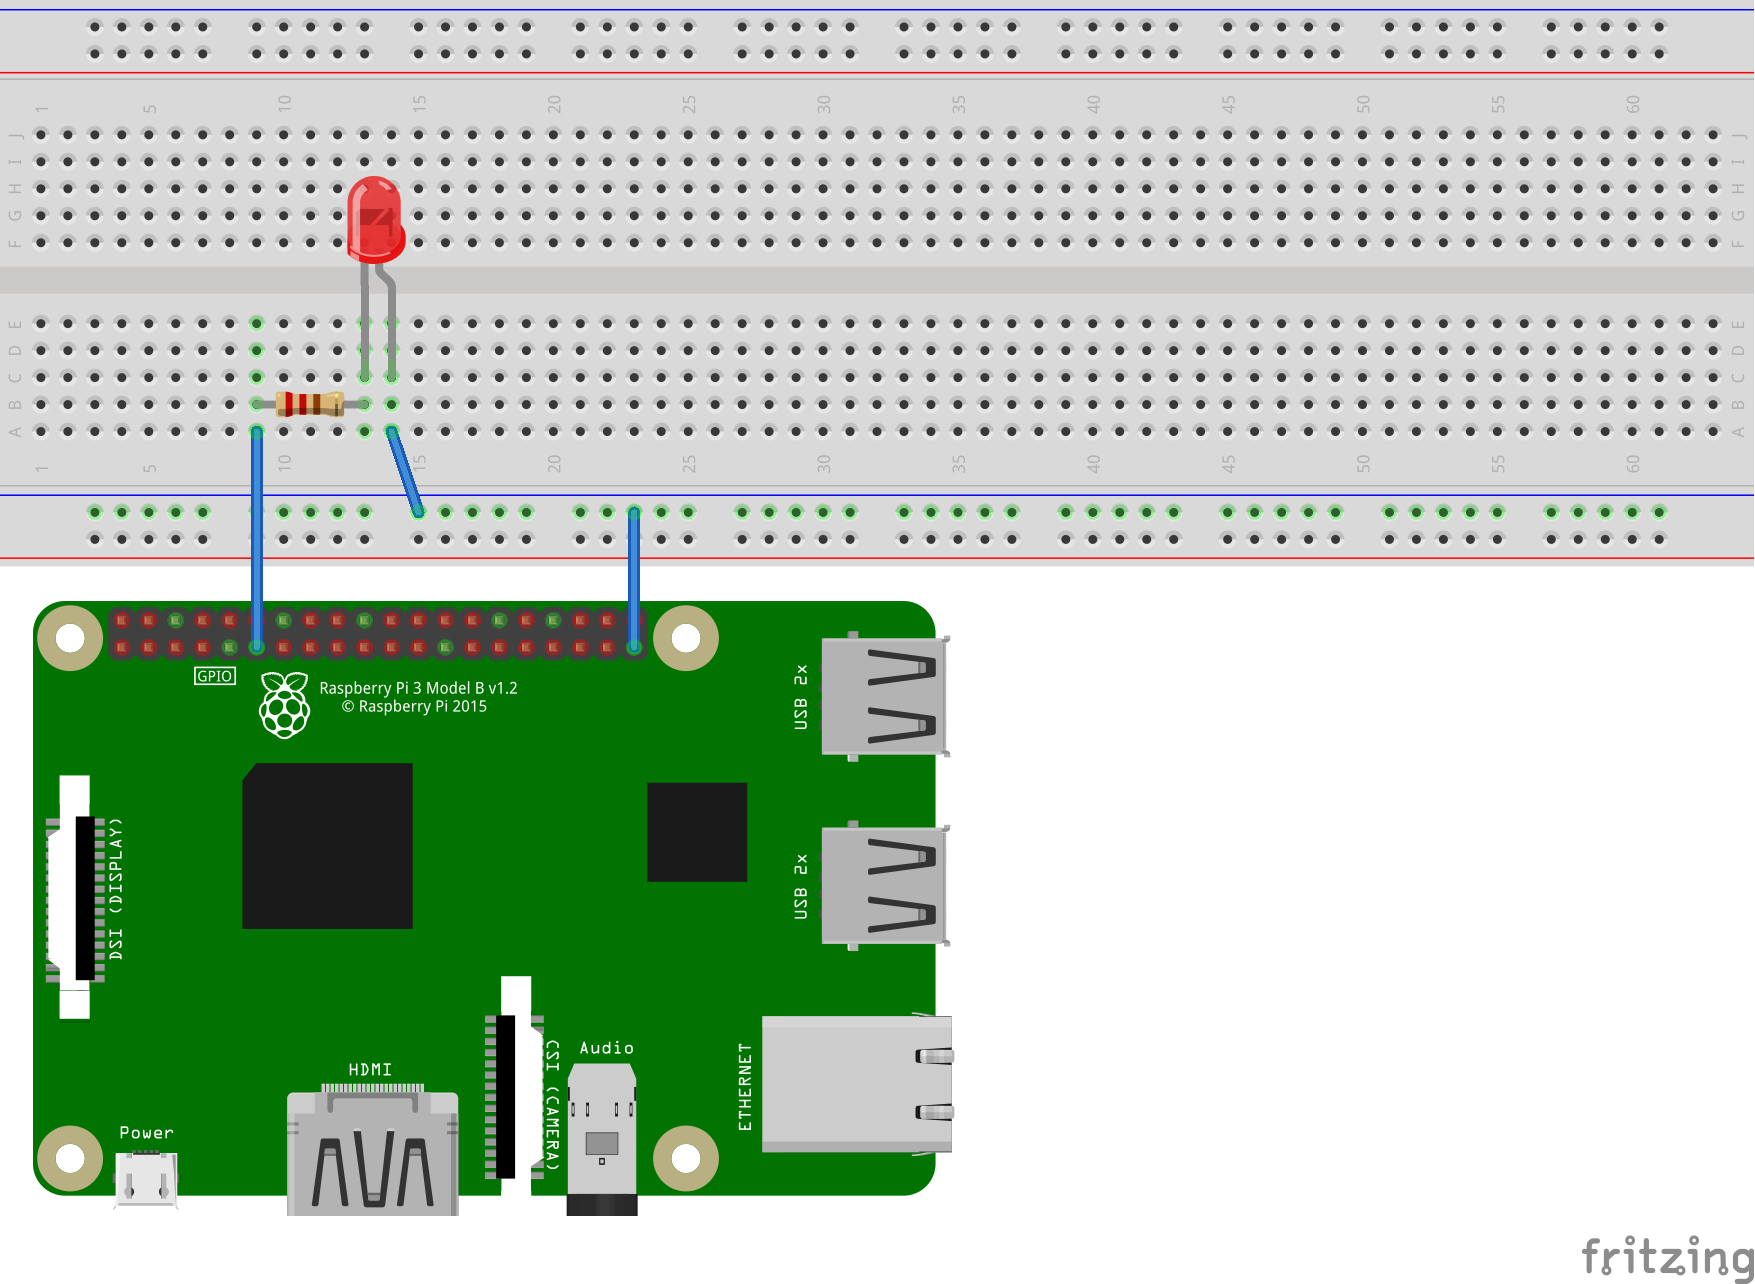
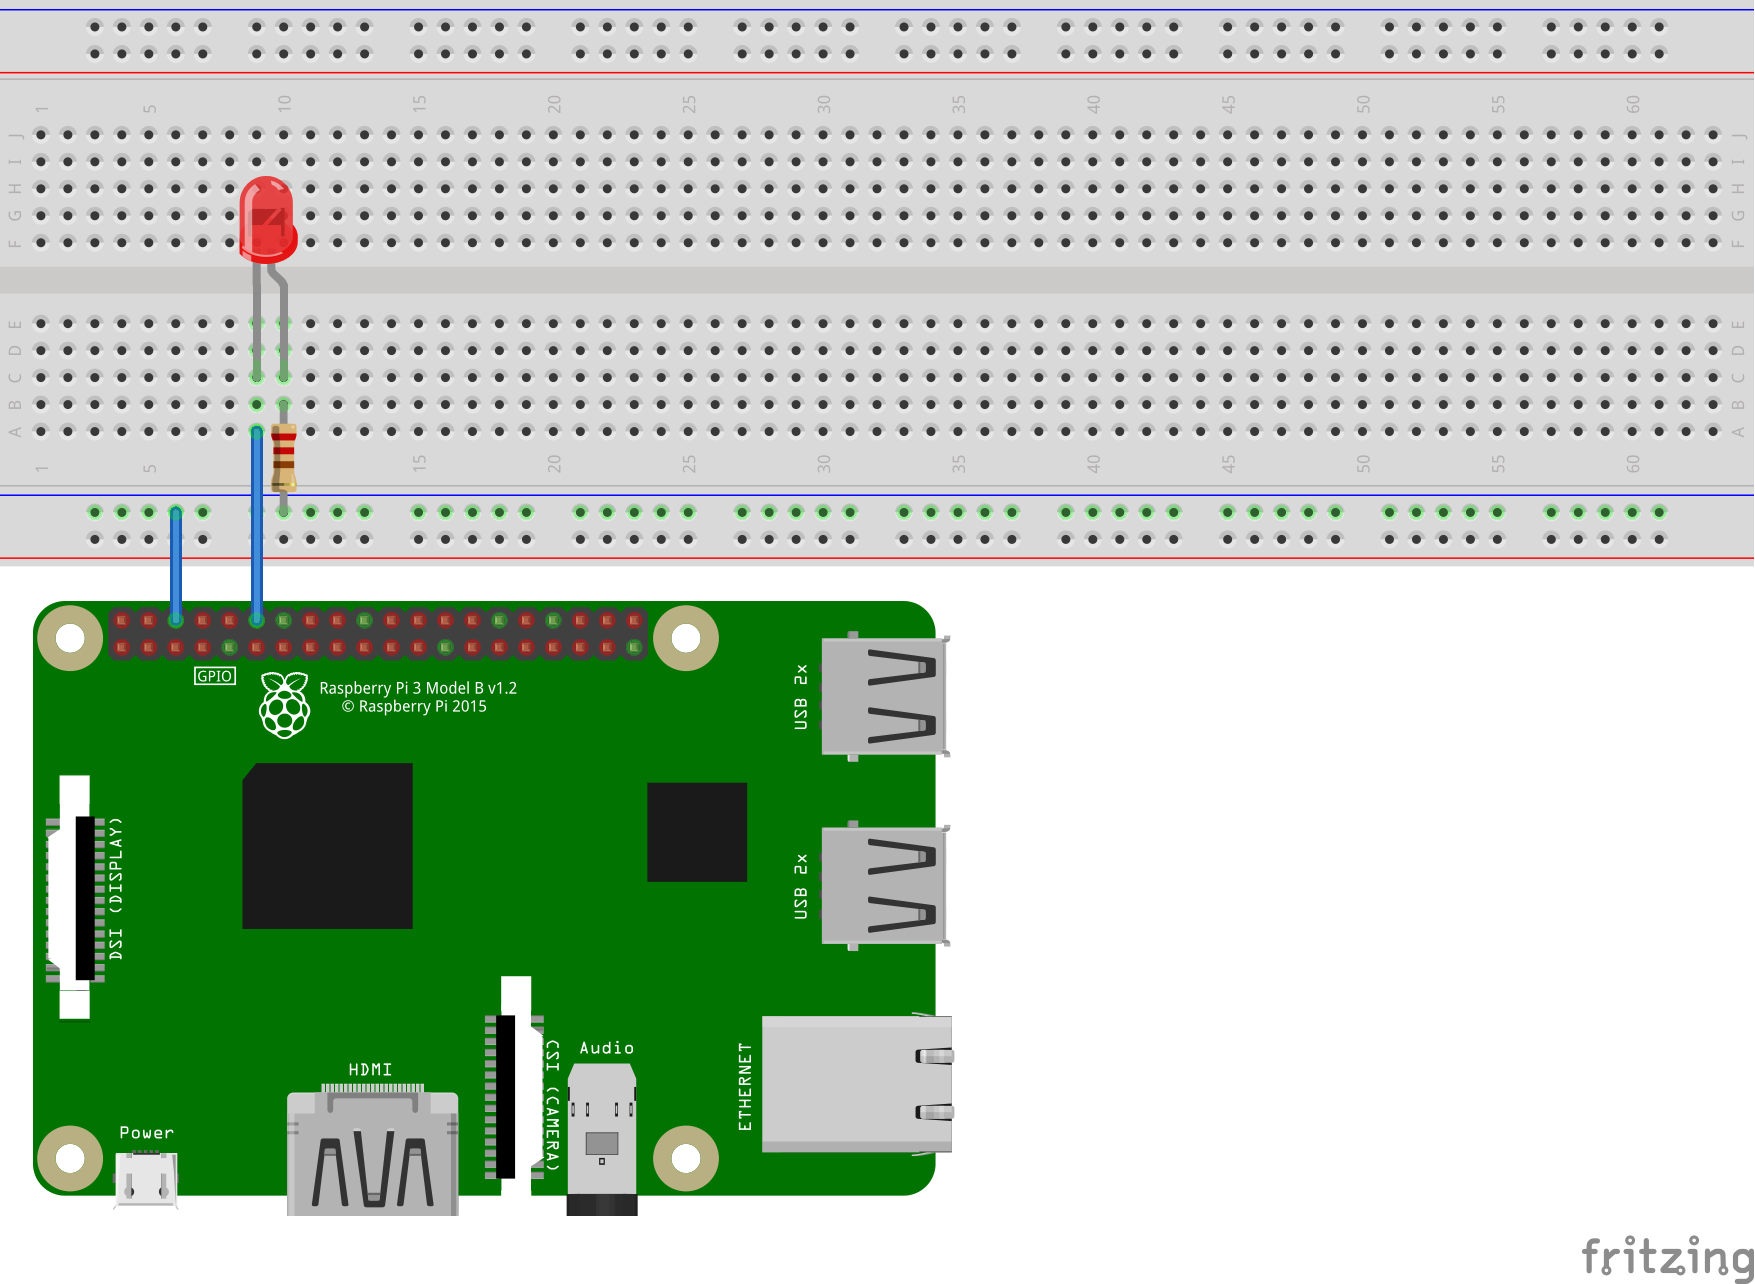
Update LED samples (#1165)
* Update led-blink sample

* Update led-blink sample

* Add multi-LED example

* Update order in sample

diff --git a/samples/led-blink/Program.cs b/samples/led-blink/Program.cs
@@ -12,30 +12,25 @@ namespace led_blink
     {
         static void Main(string[] args)
         {
-            var pin = 17;
-            var lightTimeInMilliseconds = 1000;
-            var dimTimeInMilliseconds = 200;
+            var pin = 18;
+            var lightTime = 1000;
+            var dimTime = 200;
             
             Console.WriteLine($"Let's blink an LED!");
-            using (GpioController controller = new GpioController())
+            using GpioController controller = new GpioController();
+            controller.OpenPin(pin, PinMode.Output);
+            Console.WriteLine($"GPIO pin enabled for use: {pin}");
+
+            // turn LED on and off
+            while (true)
             {
-                controller.OpenPin(pin, PinMode.Output);
-                Console.WriteLine($"GPIO pin enabled for use: {pin}");
+                Console.WriteLine($"Light for {lightTime}ms");
+                controller.Write(pin, PinValue.High);
+                Thread.Sleep(lightTime);
 
-                Console.CancelKeyPress += (object sender, ConsoleCancelEventArgs eventArgs) =>
-                {
-                    controller.Dispose();
-                };
-
-                while (true)
-                {
-                    Console.WriteLine($"Light for {lightTimeInMilliseconds}ms");
-                    controller.Write(pin, PinValue.High);
-                    Thread.Sleep(lightTimeInMilliseconds);
-                    Console.WriteLine($"Dim for {dimTimeInMilliseconds}ms");
-                    controller.Write(pin, PinValue.Low);
-                    Thread.Sleep(dimTimeInMilliseconds);
-                }
+                Console.WriteLine($"Dim for {dimTime}ms");
+                controller.Write(pin, PinValue.Low);
+                Thread.Sleep(dimTime);
             }
         }
     }

diff --git a/samples/led-blink/README.md b/samples/led-blink/README.md
@@ -1,46 +1,18 @@
 # Blink an LED with .NET Core on a Raspberry Pi
 
-This [sample](Program.cs) demonstrates blinking an LED at a given interval. It repeatedly toggles a GPIO pin on and off, which powers the LED. This sample also demonstrates the most basic usage of the [.NET Core GPIO library](https://dotnet.myget.org/feed/dotnet-core/package/nuget/System.Device.Gpio).
+This [sample](Program.cs) demonstrates blinking an LED. The sample also demonstrates the most basic usage of the [.NET Core GPIO library](https://www.nuget.org/packages/System.Device.Gpio).
 
-## Run the sample
-
-This sample can be built and run with .NET Core 2.1. Use the following commands from the root of the repo:
-
-```console
-cd samples
-cd led-blink
-dotnet build -c release -o out
-sudo dotnet out/led-blink.dll
-```
-
-## Run the sample with Docker
-
-This sample can be built and run with Docker. Use the following commands from the root of the repo:
-
-```console
-cd samples
-cd led-blink
-docker build -t led-blink .
-docker run --rm -it -v /sys:/sys led-blink
-```
-
-## Code
-
-The following code provides write access to a GPIO pin (GPIO 17 in this case):
+The following code toggles a GPIO pin on and off, which powers the LED.
 
 ```csharp
-int pin = 17;
+int pin = 18;
 GpioController controller = new GpioController();
 controller.OpenPin(pin, PinMode.Output);
-```
-
-The following code blinks the LED on a schedule for an indefinite duration (forever):
-
-```csharp
 
 int lightTimeInMilliseconds = 1000;
 int dimTimeInMilliseconds = 200;
-            
+
+// turn LED on and off
 while (true)
 {
     Console.WriteLine($"Light for {lightTimeInMilliseconds}ms");
@@ -52,19 +24,80 @@ while (true)
 }
 ```
 
-## Breadboard layout
-
-The following [fritzing diagram](rpi-led.fzz) demonstrates how you should wire your device in order to run the [program](Program.cs). It uses the GND and GPIO 17 pins on the Raspberry Pi.
+The following [fritzing diagram](rpi-led.fzz) demonstrates how you should wire your device to match the code above.
 
 ![Raspberry Pi Breadboard diagram](rpi-led_bb.png)
 
-## Hardware elements
+## Extending the sample to multiple LEDs
 
-The following elements are used in this sample:
+The sample can be be adapted to use multiple LEDs. The following code defines an array of integers that specifies the pins that will be connected to LEDs. You can add or remove integers from the array, to account for the LEDs you want to use. The rest of the program iterates on the array in various ways.
 
-* [Diffused LEDs](https://www.adafruit.com/product/297)
+```csharp
+var pins = new int[] {18, 24, 25};
+var lightTime = 1000;
+var dimTime = 200;
+
+Console.WriteLine($"Let's blink an LED!");
+using GpioController controller = new GpioController();
+
+// open pins as output mode
+foreach (var pin in pins)
+{
+    controller.OpenPin(pin, PinMode.Output);
+    Console.WriteLine($"GPIO pin enabled for use: {pin}");
+}
+
+Console.CancelKeyPress += (s, e) =>
+{
+    // turn off all pins when the program is terminated, with CTRL-C
+    foreach (var pin in pins)
+    {
+        Console.WriteLine($"Dim pin {pin}");
+        controller.Write(pin, PinValue.Low);
+    }
+};
+
+// LED behavior
+while (true)
+{
+    // turn each LED on and off, one at a time
+    foreach (var pin in pins)
+    {
+        Console.WriteLine($"Light LED at pin {pin} for {lightTime}ms");
+        controller.Write(pin, PinValue.High);
+        Thread.Sleep(lightTime);
+
+        Console.WriteLine($"Dim LED at pin {pin} for {dimTime}ms");
+        controller.Write(pin, PinValue.Low);
+        Thread.Sleep(dimTime);
+    }
+
+    // turns the pins on and off and various intervals
+    // uses modulus math to turn on an arbitrary number of the LEDs with each iteration
+    for (int i = 0; i < 6; i++)
+    {
+        // Light or dim each LED
+        for (int j = 0; j < pins.Length; j++)
+        {
+            var pin = pins[j];
+            // need a `0` or a `1` for the PinValue
+            var pinValue = (i + j) % 2;
+            Console.WriteLine($"Set pin {pin} as {(PinValue)pinValue} for {lightTime}ms");
+            controller.Write(pin, pinValue);
+        }
+
+        Thread.Sleep(lightTime);
+    }
+}
+```
+
+The following [fritzing diagram](rpi-led-multiple.fzz) demonstrates how you should wire your device to match the code above.
+
+![Raspberry Pi Breadboard diagram](rpi-led-multiple_bb.png)
 
 ## Resources
 
-* [Using .NET Core for IoT Scenarios](../README.md)
+* [Diffused LEDs](https://www.adafruit.com/product/297)
 * [All about LEDs](https://learn.adafruit.com/all-about-leds)
+- [Blinking an LED with Arduino](https://learn.adafruit.com/adafruit-arduino-lesson-2-leds/blinking-the-led)
+- [Blinking an LED with Python](https://learn.adafruit.com/blinking-an-led-with-beaglebone-black/writing-a-program)

diff --git a/samples/README.md b/samples/README.md
@@ -1,36 +1,33 @@
-# Using .NET Core for IoT Scenarios
+# Using .NET for IoT Scenarios
 
-.NET Core can be used to build applications for [IoT](https://en.wikipedia.org/wiki/Internet_of_things) devices and scenarios. IoT applications typically interact with sensors, displays and input devices that require the use of [GPIO pins](https://en.wikipedia.org/wiki/General-purpose_input/output), serial ports or similar hardware. The [Raspberry Pi](https://www.raspberrypi.org/) is commonly used for IoT applications.
+.NET can be used to build [IoT](https://en.wikipedia.org/wiki/Internet_of_things) applications, using sensors, displays and input devices. Most ARM64 and ARM32 (hard float required) single board computers can be used, incuding [Raspberry Pi](https://www.raspberrypi.org/). 
+
+## APIs
+
+The [System.Device.Gpio](https://www.nuget.org/packages/System.Device.Gpio) package includes protocol APIs, such as [GPIO](https://en.wikipedia.org/wiki/General-purpose_input/output), [I²C](https://en.wikipedia.org/wiki/I%C2%B2C), and[SPI](https://en.wikipedia.org/wiki/Serial_Peripheral_Interface). The [Iot.Device.Bindings](https://www.nuget.org/packages/Iot.Device.Bindings/) package includes [community-supported bindings](../src/devices/README.md) such as [SN74HC595](../src/devices/Sn74hc595/README.md) and [CharacterLcd](../src/devices/CharacterLcd/README.md).
 
 ## Samples
 
 The following samples demonstrate various scenarios: 
 
 * [Blinking LED](led-blink/README.md)
-* [Force Sensitive Resistor usage](force-sensitive-resistor/README.md)
 * [More blinking lights](led-more-blinking-lights/README.md)
+* [Force Sensitive Resistor usage](force-sensitive-resistor/README.md)
+* [LED Matrix - Weather](led-matrix-weather/README.md)
 * [Serial Port - Arduino](serialport-arduino/README.md)
 
-## Libraries
-
-These samples use the [System.Device.Gpio](https://dotnet.myget.org/feed/dotnet-core/package/nuget/System.Device.Gpio) library. It will be supported on Linux and Windows IoT Core. The library is currently in early preview, based on [source in dotnet/iot](https://github.com/dotnet/iot/tree/master/src/System.Device.Gpio).
-
-There are many libraries that are important beyond GPIO, I2C and related fundamental protocols. We are working on a plan where the .NET Team and the community can work together to build up a shared repository of implementations.
-
-## Breadboard layouts
-
-The samples expect the device pins to be connected in particular way to function, typically on a breadboard. Each example includes a [Fritzing](http://fritzing.org/home/) diagram of the required breadboard layout, such as the following one (taken from the [More blinking lights](led-more-blinking-lights/README.md) sample).
-
-![Raspberry Pi Breadboard diagram](led-more-blinking-lights/rpi-more-blinking-lights_bb.png)
+![led-blink](led-blink/rpi-led_bb.png)
 
 ## Requirements
 
-You need to use at least [.NET Core 2.1](https://www.microsoft.com/net/download/archives). [.NET Core 3.0](https://github.com/dotnet/announcements/issues/82) is required for ARM64 devices.
+The .NET IoT APIs require using at least .NET Core 2.1. [.NET Core 3.1](https://dotnet.microsoft.com/download/dotnet-core/3.1) or higher is recommended, and is required for ARM64.
 
-Many of these samples use the [Raspberry Pi](https://www.raspberrypi.org/), however, .NET Core can be used with other devices. A [Raspberry Pi Starter Pack](https://www.adafruit.com/product/3058) contains enough electronics to get started on many projects.
+Many of these samples use the [Raspberry Pi](https://www.raspberrypi.org/), however, .NET Core can be used with other devices. .NET Core is supported on Raspberry Pi 2B as well as 3 and 4 models (ARMv7/v8). .NET Core is not supported on Raspberry Pi Zero or Arduino.
 
-.NET Core is supported on Raspberry Pi 2B as well as 3 and 4 models (ARMv7/v8). .NET Core is not supported on Raspberry Pi Zero or Arduino.
+We primarily test the IoT APIs on Debian Linux, although we expect them to work on most Linux distros. We do not test on Windows.
 
 ## Resources
 
-See the [Documentation page](https://github.com/dotnet/iot/tree/master/Documentation) for more references to devices, component vendors, and general IoT topics.
+* [dotnet/iot Documentation](../Documentation/README.md)
+* [Deploying an IoT app](../Documentation/How-to-Deploy-an-IoT-App.md)
+* [Device bindings](../src/devices/README.md)
